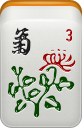
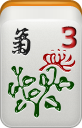
Fix gong bug, start working on updated ui

Changed region(s): [[0.7317, 0.1875, 0.9512, 0.4062]]

diff --git a/client/src/io.js b/client/src/io.js
@@ -47,7 +47,7 @@ export default function attachListeners(socket, store) {
 
   // Player Prompts
   socket.on('prompt pong', info => {
-    store.prompt = store.playerNum == info.pongPlayer;
+    store.prompt = store.playerNum == info.pongPlayer || store.playerNum == info.gongPlayer;
     store.canPong = store.playerNum == info.pongPlayer;
     store.canGong = store.playerNum == info.gongPlayer;
   });

diff --git a/game/gameplay.js b/game/gameplay.js
@@ -245,7 +245,7 @@ function checkMelds(game) {
   for (let p = 0; p < 4; p++){
     let hand = game.hands[p];
     let count = countTile(hand, game.lastDiscard);
-    if (count == 2 && p != game.curPlayer){  // found pong from another player
+    if (count >= 2 && p != game.curPlayer){  // found pong from another player
       game.pongPlayer = p;
       pongExists = true;
     }

diff --git a/server.js b/server.js
@@ -1,7 +1,7 @@
 const app = require('express')();
 
 const serveStatic = require('serve-static');
-app.use(serveStatic(__dirname + "/client/dist"));
+//app.use(serveStatic(__dirname + "/client/dist"));
 
 const http = require('http').createServer(app);
 const io = require('socket.io')(http);

diff --git a/client/src/components/Table.vue b/client/src/components/Table.vue
@@ -1,6 +1,6 @@
 <template>
   <div class="Table">
-    <!-- <Debug /> -->
+    <Debug />
     <div class="PlayerHands">
       <Hand
         v-for="index in 4"

diff --git a/client/src/_global.scss b/client/src/_global.scss
@@ -15,7 +15,7 @@ $hand-width: 90%;
 
 // Tiles
 $t-width: 3.5vw;
-$t-max-width: 29px;
+$t-max-width: 35px;
 $t-height: 50px;
 
 // Discard
